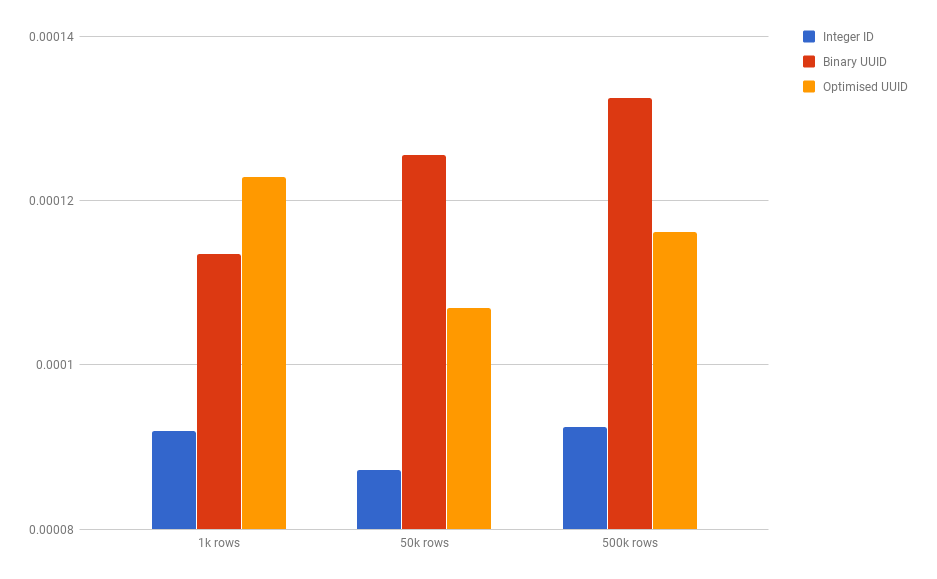
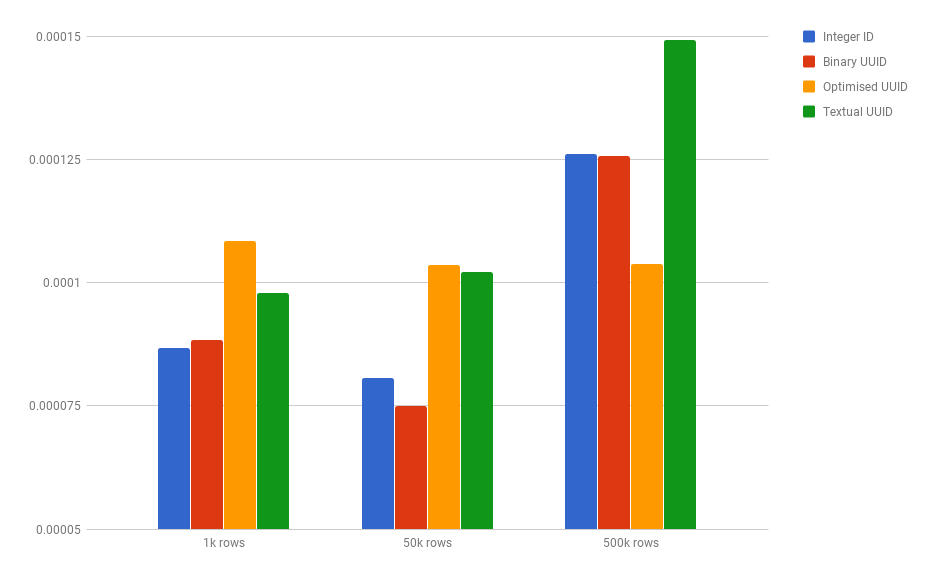
Update blogpost

diff --git a/src/data/blog/2017-11-15-optimised-uuids-in-mysql.md b/src/data/blog/2017-11-15-optimised-uuids-in-mysql.md
@@ -7,7 +7,12 @@ Take a look at the following graph, plotting the execution time of hundred queri
 
 ![Poor textual UUID performance](/img/blog/binary-uuid/textual_uuid.png)
 
-That's an average of more than 1.5 seconds when using textual UUIDs! 
+~~That's an average of more than 1.5 seconds when using textual UUIDs!~~ 
+
+*There's an **important edit** here: the benchmark above was performed on un-indexed fields.
+I've since changed the benchmark results to work with indexed textual fields for a more fair comparison.
+There's still a performance gain to not using textual UUIDs, so keep reading!*
+
 Looking around for better alternatives, we found a two-part solution.
 
 ## Saving UUIDs as binary data
@@ -18,16 +23,19 @@ This is the graph plotting a much faster result.
 
 ![Binary UUIDs have a huge performance improvement](/img/blog/binary-uuid/binary_uuid.png)
 
-That's an avarage of 0.0001324915886 seconds per query, in comparison to 1.5 seconds for the textual UUID.
+That's an avarage of 0.00008832061291 seconds per query, 
+in comparison to ~~1.5~~ 0.0001493031979 seconds for the **indexed** textual UUID.
 
 ## It becomes even better!
 
 The binary encoding of UUIDs solved most of the issue.
-There's one extra step to take though, which allows MySQL to even better index this field.
+There's one extra step to take though,
+which allows MySQL to even better index this field for large datasets.
 
 By switching some of the bits in the UUID, more specifically time related data, 
 we're able to save them in a more ordered way.
 And it seems that MySQL is especially fond of ordered data when creating indices.
+There's one important thing to note: this time related bits are only available in UUID version 1.
 
 Using this approach, we can see following result.
 
@@ -35,7 +43,9 @@ Using this approach, we can see following result.
 
 The optimised approach is actually slower for lookups in a small table, 
 but it outperforms the normal binary approach on larger datasets.
-You can also see that normal integer IDs are still the winner by far.
+It even performs better than an `AUTO_INCREMENT` integer ID!
+But as you can see, we need very large tables before the optimised UUID has a benefit.
+
 I would recommend only using UUIDs when there's a very good use case for them.
 For example: when you want unique IDs over all tables, and not just one;
 or if you want to hide exactly how many rows there are in the table.
